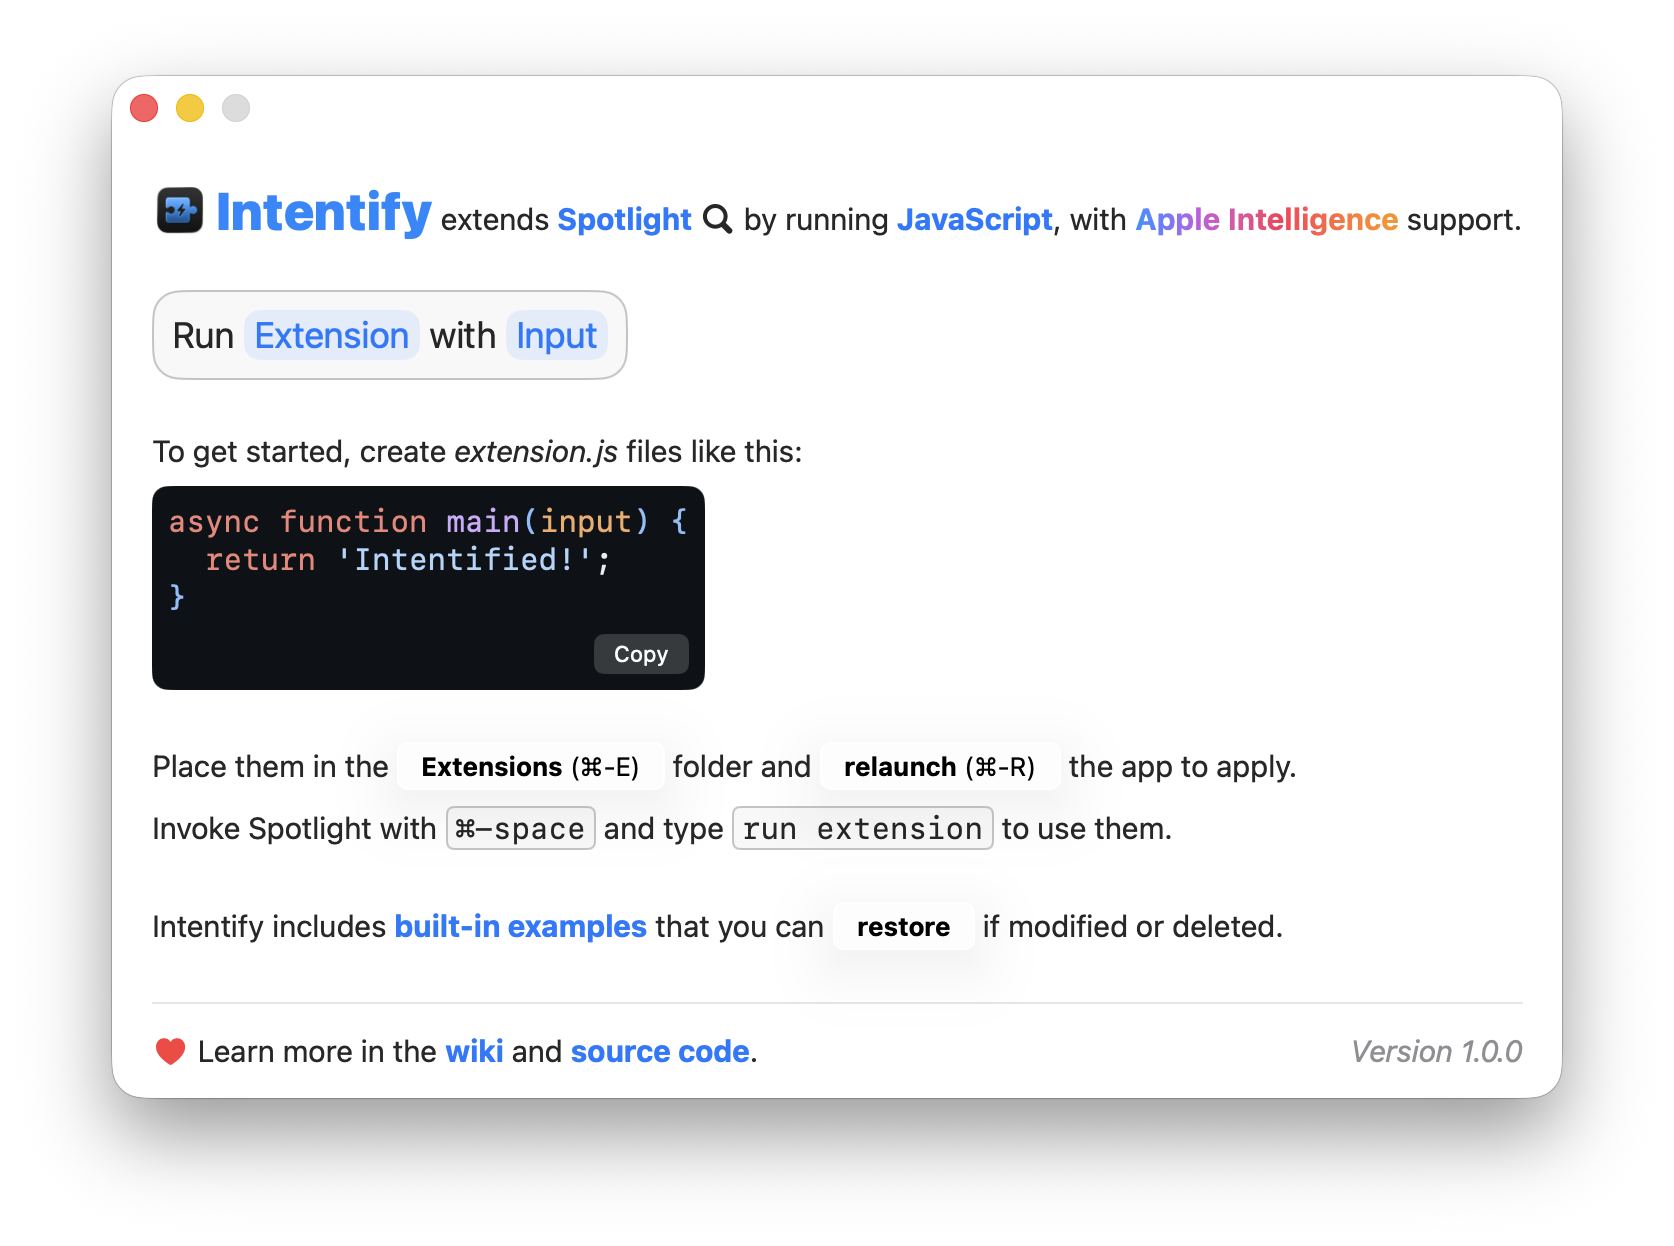
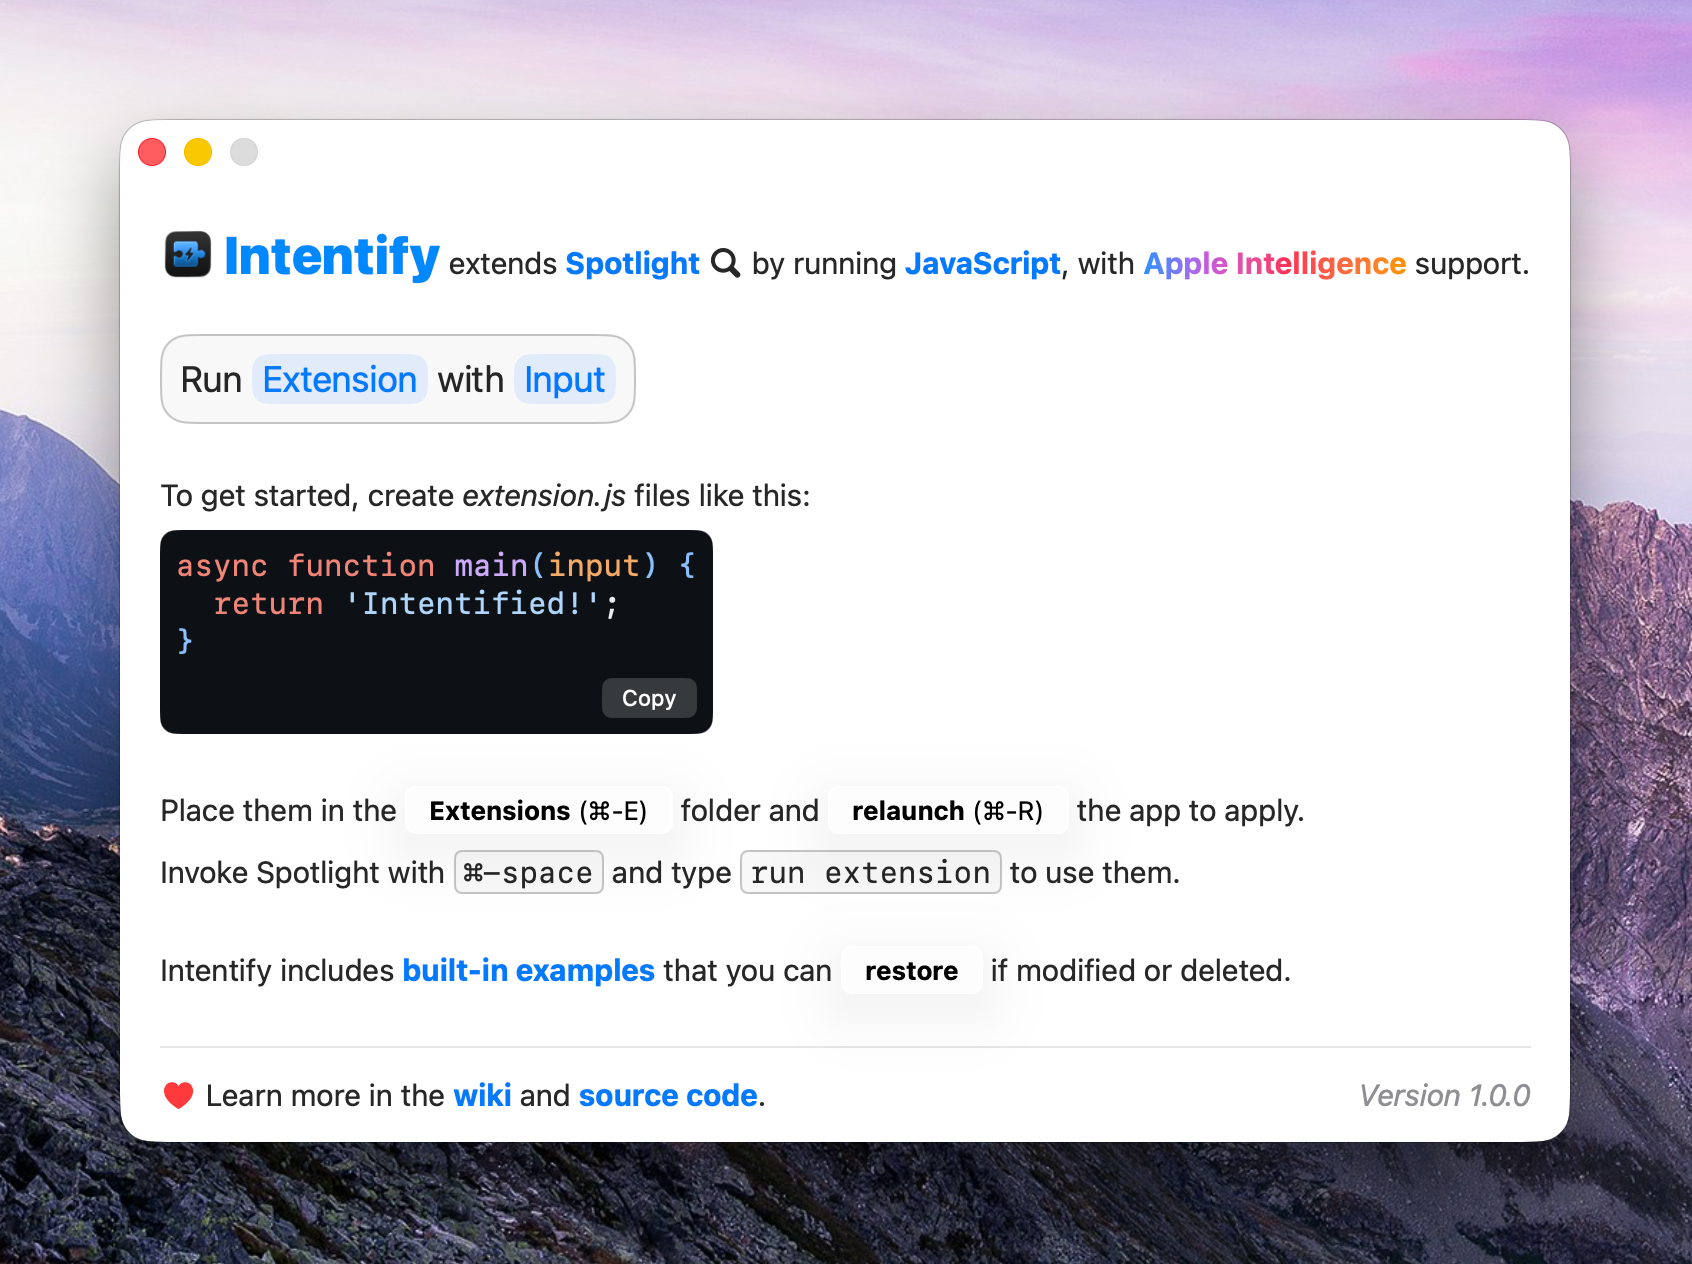
Improve screenshots (#2)

diff --git a/README.md b/README.md
@@ -6,9 +6,9 @@
 
 Extends [Spotlight](https://support.apple.com/guide/mac-help/mchlp1008/mac) by running JavaScript, with [Apple Intelligence](https://www.apple.com/apple-intelligence/) support.
 
-<img src="./Screenshots/01.png" width="540" alt="Screenshot 01">
+<img src="./Screenshots/01.png" width="564" alt="Screenshot 01">
 
-<img src="./Screenshots/02.png" width="540" alt="Screenshot 02">
+<img src="./Screenshots/02.png" width="564" alt="Screenshot 02">
 
 > [!TIP]
 > Discover our other free and open-source apps at [libremac.github.io](https://libremac.github.io/).
